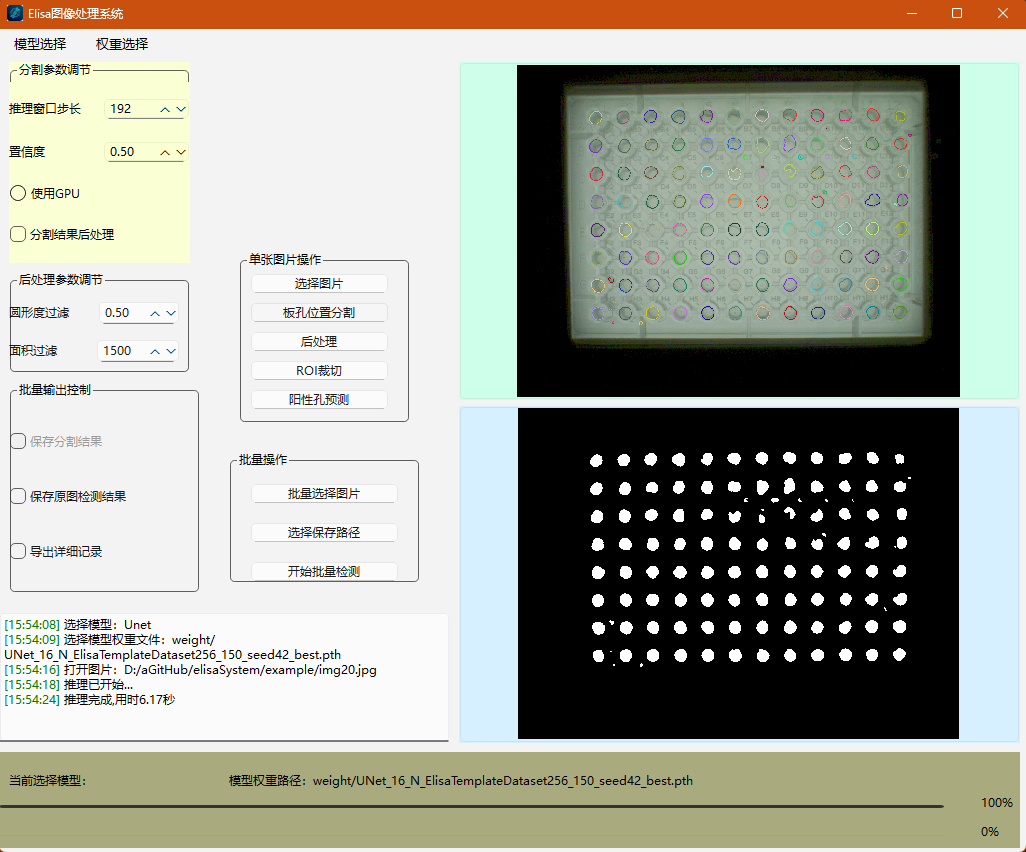
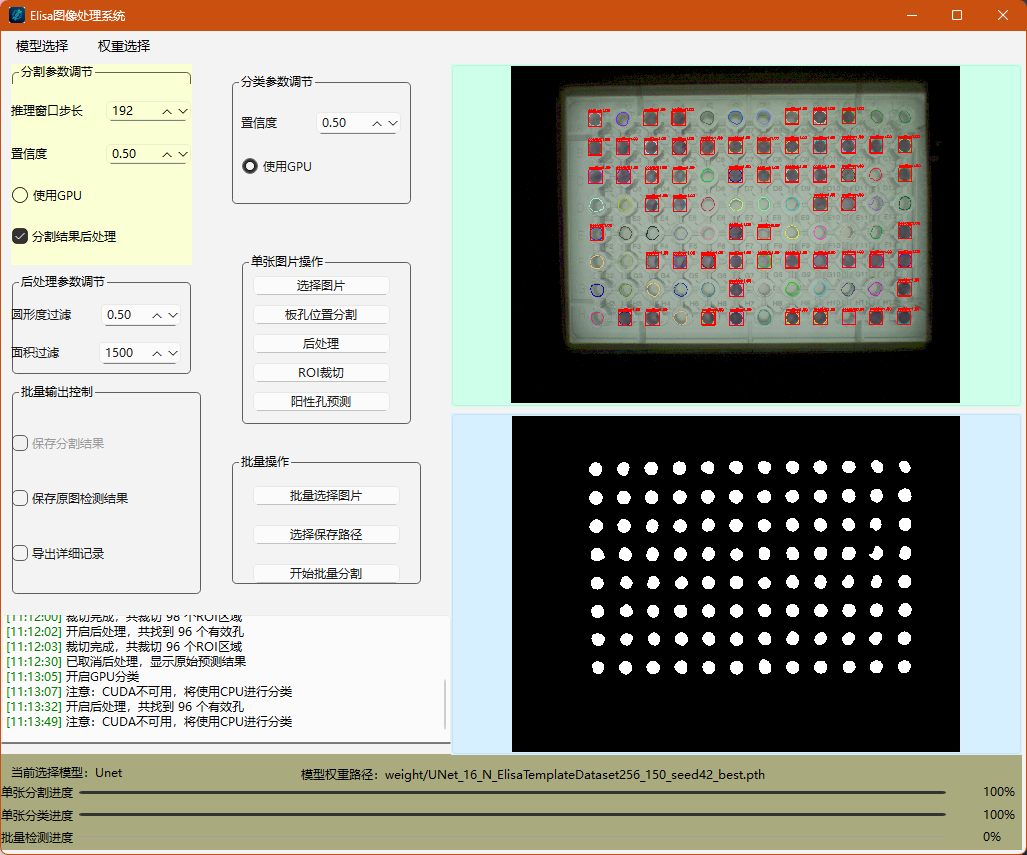
ui设计师界面更新，README更新

diff --git a/README.md b/README.md
@@ -8,16 +8,17 @@ ELISA图像处理系统是一个基于深度学习的图像分割工具，专门
 
 ## 功能特点
 
-- **深度学习模型支持**：支持U-Net和Attention U-Net两种模型架构
+- **深度学习模型支持**：支持U-Net和Attention U-Net等多种模型架构
 - **图形用户界面**：基于PySide6的直观易用的GUI界面
 - **批量处理**：支持批量处理多个图像文件
 - **后处理优化**：提供形态学处理和目标筛选功能
 - **结果可视化**：实时显示分割结果和原图叠加效果
 - **ROI提取**：自动提取感兴趣区域用于后续分类任务
+- **阳性孔分类**：新增基于ResNet的阳性/阴性孔分类功能
 
 ## 界面预览
 
-![系统主界面](mainwindow.png)
+![系统主界面](D:\aGitHub\elisaSystem\mainwindow.png)
 
 ## 系统要求
 
@@ -69,18 +70,32 @@ python ElisaSystem_main.py
    - 设置保存路径
    - 点击"开始批量推理"处理所有图像
 
+5. 阳性孔分类：
+   - 在完成图像分割后，点击"阳性孔分类"按钮
+   - 选择预训练的分类模型权重文件
+   - 系统将对提取的ROI区域进行阳性/阴性分类
+
 ## 项目结构
 
 ```
 elisaSystem/
 ├── model/                  # 模型定义文件
 │   ├── UNet.py            # U-Net模型实现
-│   └── attention_unet.py  # Attention U-Net模型实现
+│   ├── attention_unet.py  # Attention U-Net模型实现
+│   ├── fcn.py             # FCN模型实现
+│   ├── r2unet.py          # R2U-Net模型实现
+│   └── swinUnet.py        # Swin-Unet模型实现
 ├── weight/                 # 预训练模型权重文件（需手动下载）
+├── output/                 # 训练输出目录
+├── classificationDataset/  # 分类模型训练数据目录
 ├── ElisaSystem_main.py     # 主程序入口
 ├── inferThread.py          # 推理线程处理
 ├── postProcess.py          # 后处理功能
 ├── prepareClassification.py# ROI区域提取
+├── classThread.py          # 阳性孔分类线程
+├── predict.py              # 分类模型推理脚本
+├── multi_classification_framework.py  # 分类模型训练框架
+├── classes.json            # 分类类别定义文件
 └── overlay_mask_on_image.py# 结果可视化
 ```
 
@@ -90,6 +105,30 @@ elisaSystem/
 
 - **U-Net**：经典的图像分割架构，包含编码器-解码器结构和跳跃连接
 - **Attention U-Net**：在U-Net基础上引入注意力机制，提高分割精度
+- **FCN**：全卷积网络，支持FCN-8s、FCN-32s等多种变体
+- **R2U-Net**：基于递归残差结构的U-Net变体，具有更好的特征提取能力
+- **Swin-Unet**：基于Swin Transformer的U-Net架构，结合了Transformer的全局建模能力和U-Net的局部特征提取能力
+- **ResNet**：用于阳性/阴性孔分类的深度残差网络
+
+#### U-Net
+
+经典的U-Net模型采用编码器-解码器结构，通过跳跃连接将编码器的特征图与解码器对应层级的特征图进行融合，能够有效保留图像的细节信息。适用于医学图像分割任务。
+
+#### Attention U-Net
+
+在经典U-Net的基础上引入了注意力门控机制，在跳跃连接处使用注意力块对编码器的特征进行加权，使模型能够关注更重要的特征区域，提高分割精度。
+
+#### FCN (Fully Convolutional Network)
+
+全卷积网络，将传统CNN的全连接层替换为卷积层，使网络能够接受任意尺寸的输入图像。支持FCN-8s和FCN-32s等多种变体，通过不同层级的特征融合实现更精确的分割。
+
+#### R2U-Net
+
+基于递归残差结构的U-Net变体，使用递归卷积块替代传统卷积，通过多次迭代增强特征表达能力，对医学图像分割具有更好的效果。
+
+#### Swin-Unet
+
+基于Swin Transformer的U-Net架构，编码器和解码器使用Swin Transformer块替代传统卷积块，结合了Transformer的全局建模能力和U-Net的局部特征提取能力，在多种图像分割任务中表现出色。
 
 ### 图像处理流程
 
@@ -98,6 +137,7 @@ elisaSystem/
 3. 结果融合和二值化
 4. 后处理优化（可选）
 5. ROI区域提取（可选）
+6. 阳性孔分类（可选）
 
 ### 后处理功能
 
@@ -105,6 +145,16 @@ elisaSystem/
 - 面积阈值筛选
 - 圆形度筛选
 - 目标数量限制
+
+### 阳性孔分类功能
+
+新增的阳性孔分类功能基于ResNet模型，可以将提取的ROI区域分为"positive"（阳性）和"negative"（阴性）两类。该功能包括：
+
+- 独立的分类模型训练框架
+- 支持多种预训练模型（通过timm库）
+- 可视化分类结果
+- 支持置信度阈值设置
+- 批量处理能力
 
 ## 贡献指南
 
